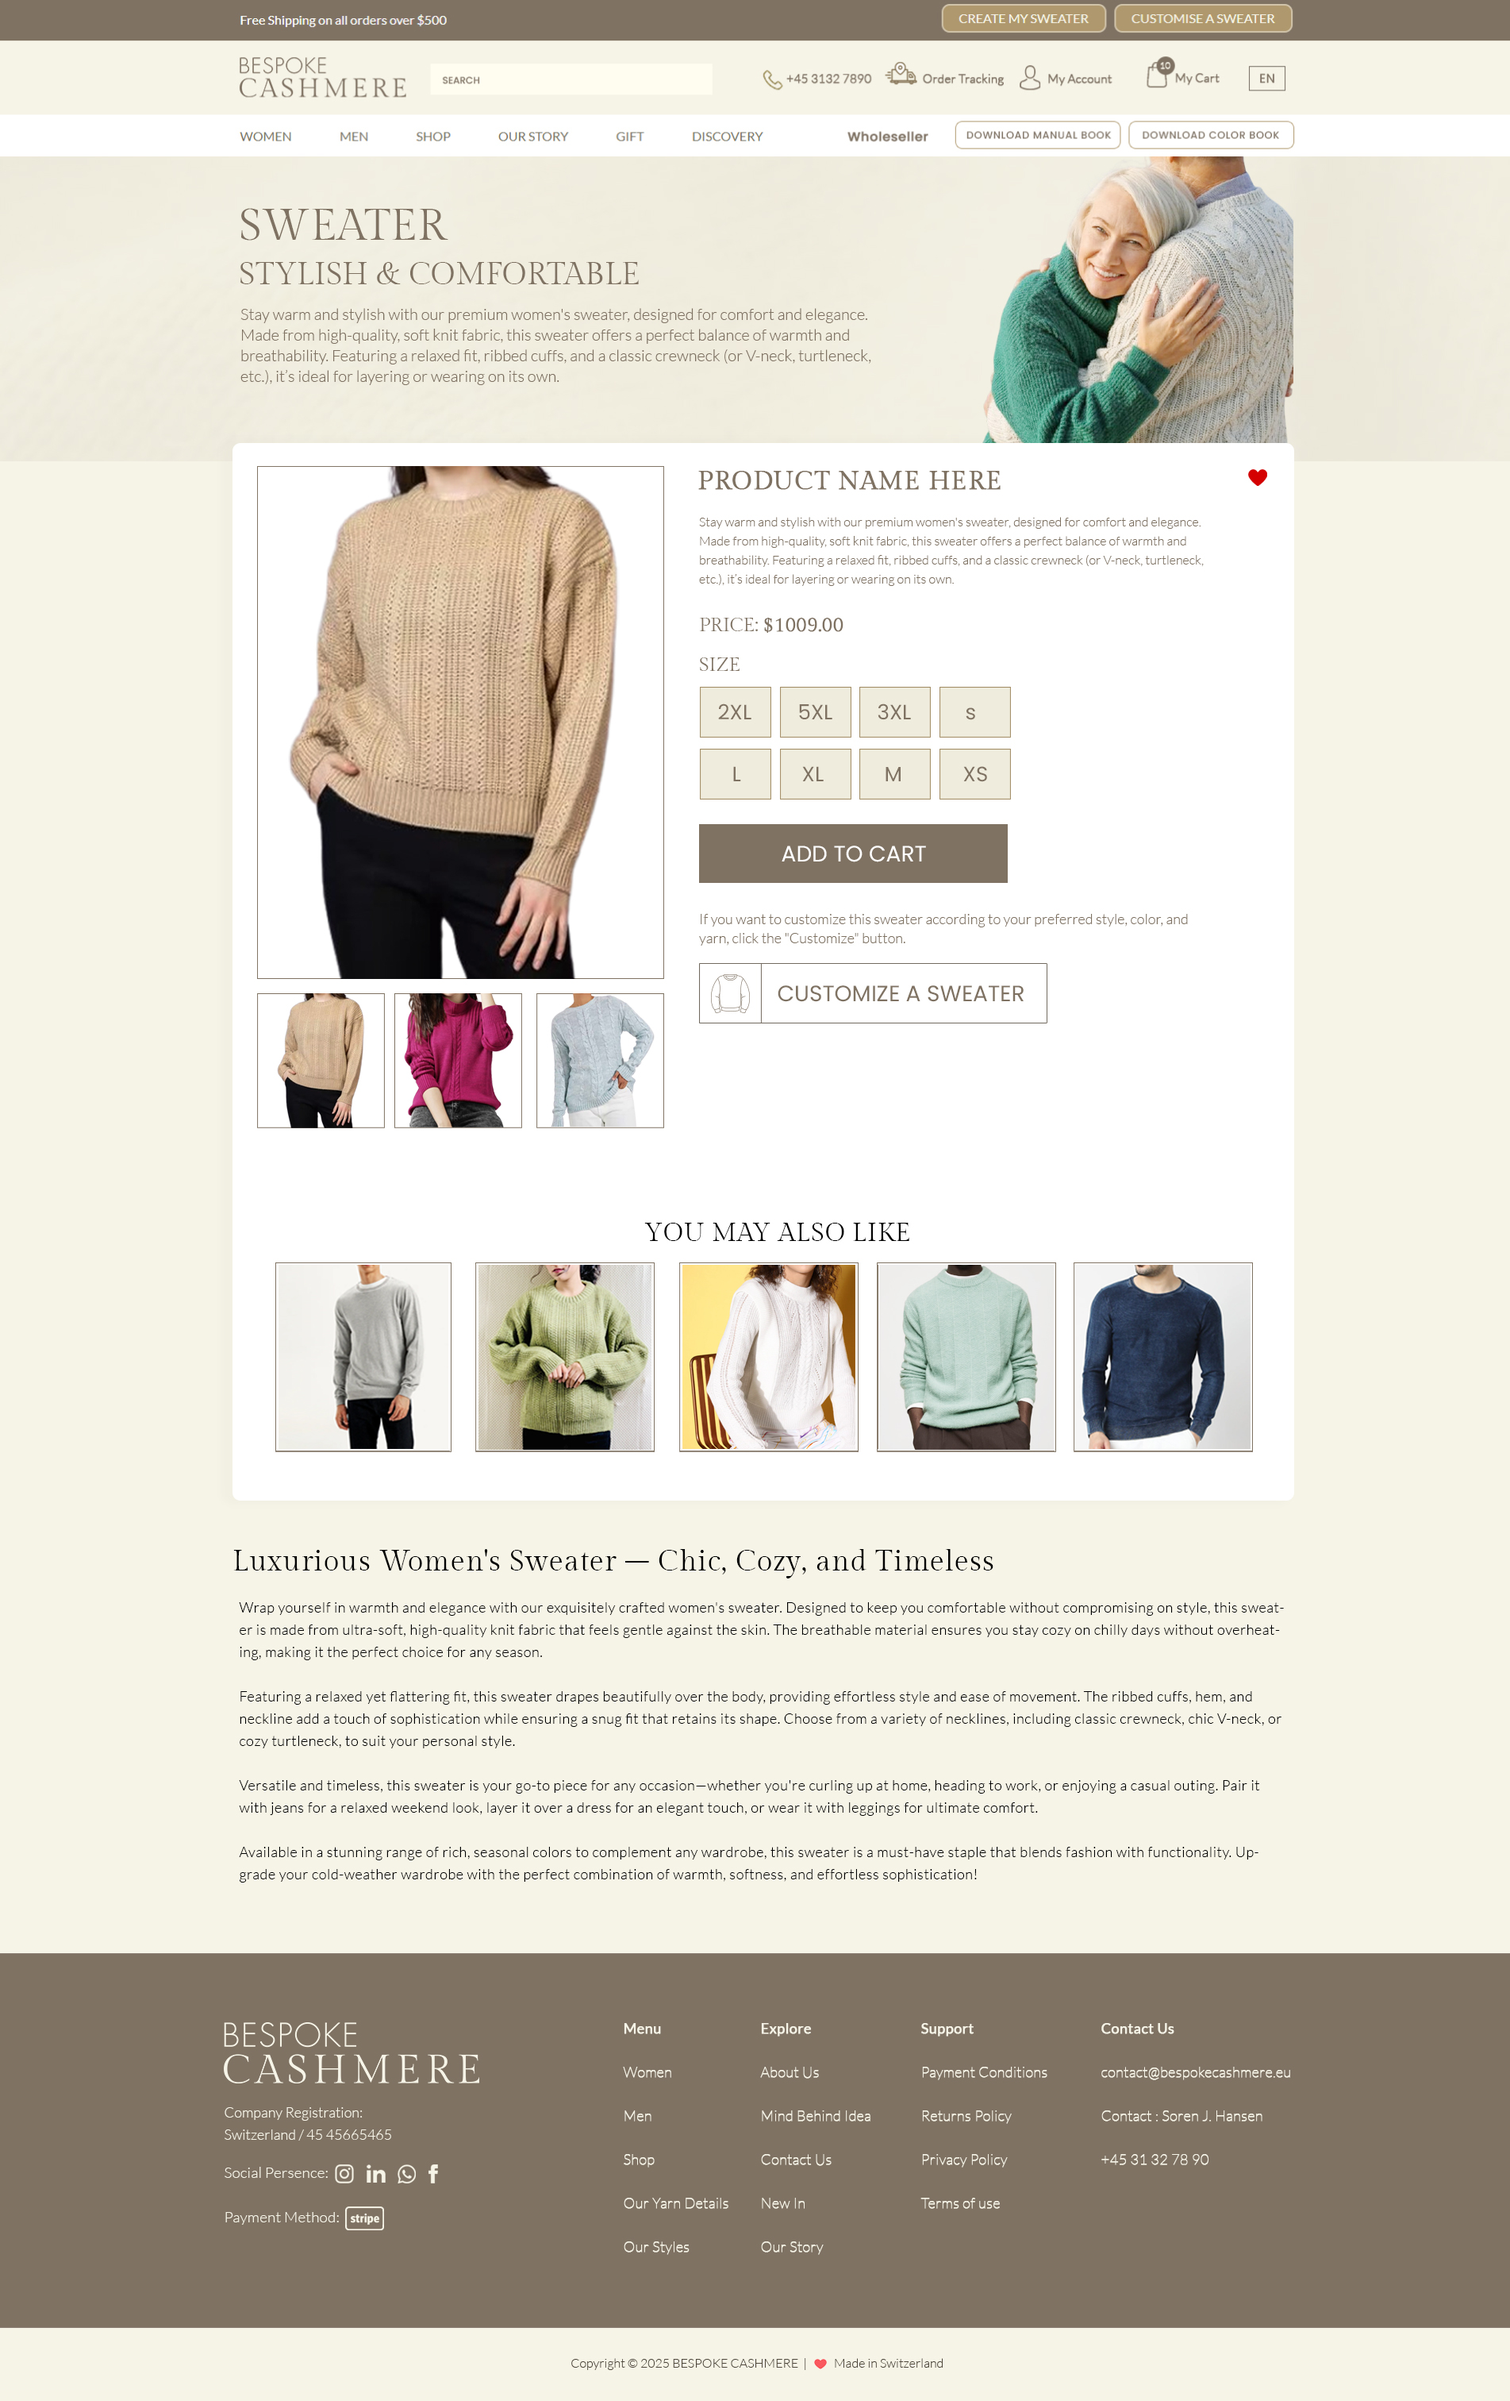
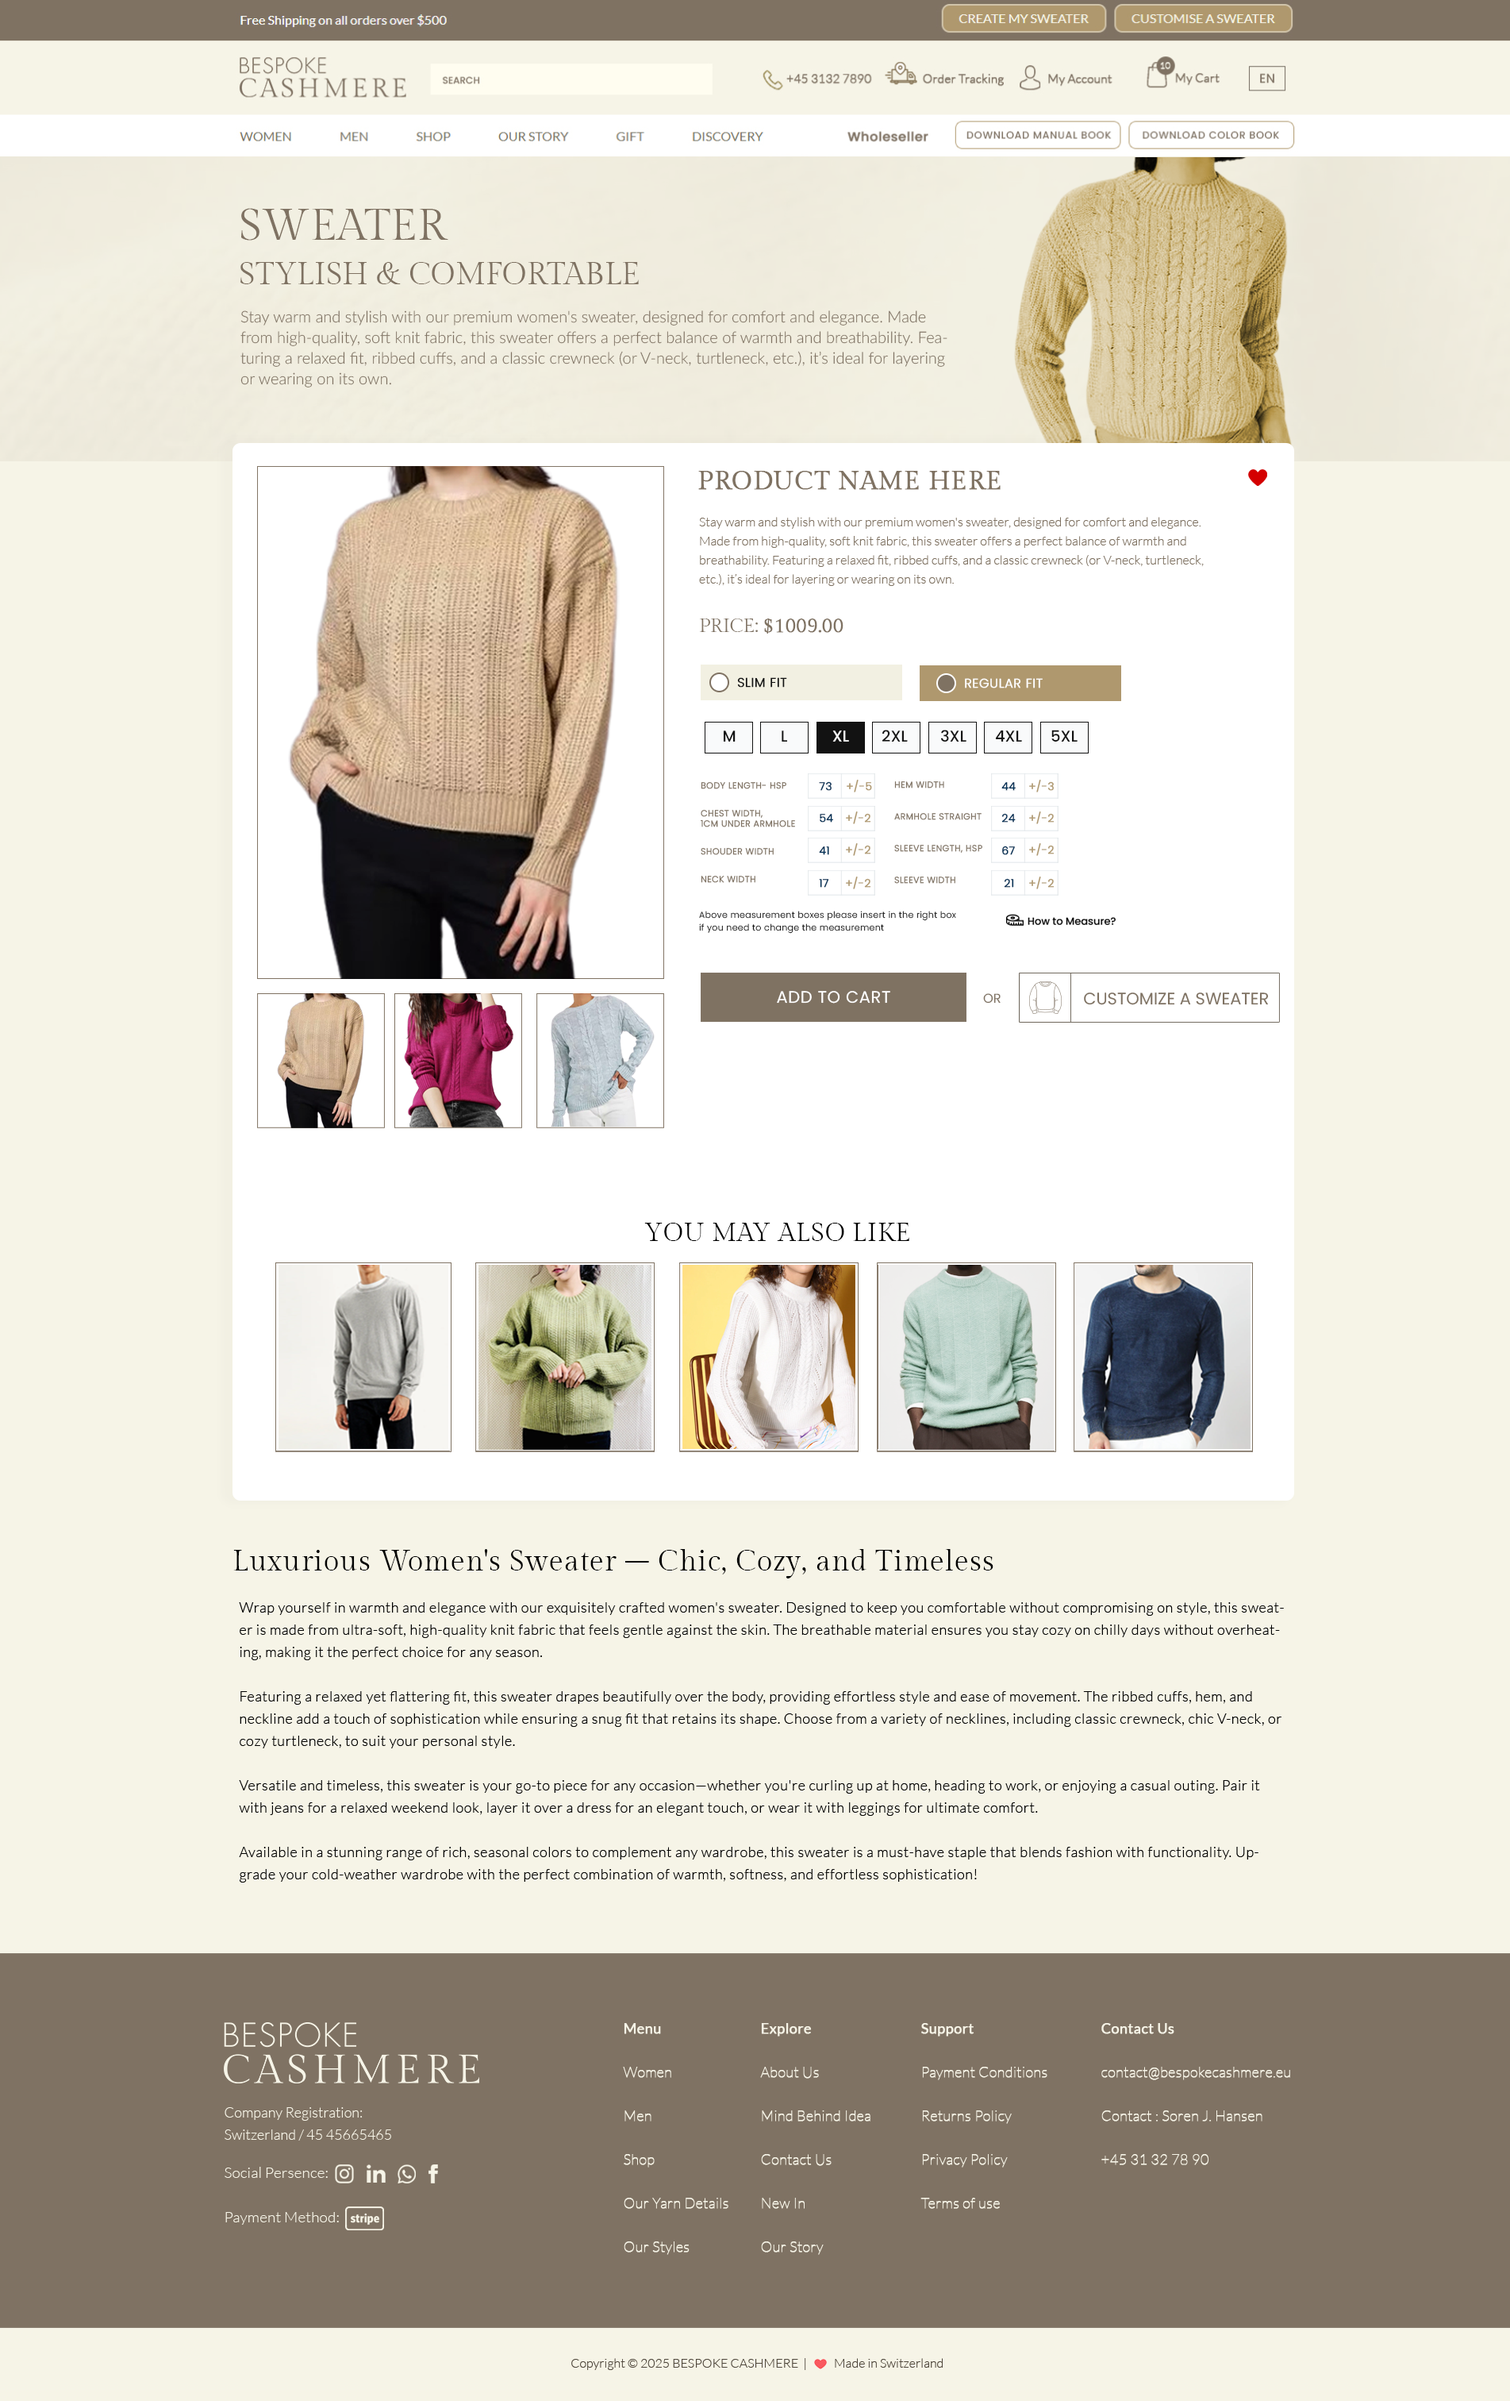
add new pages

Changed region(s): [[0.4651, 0.2487, 0.7441, 0.4352], [0.6511, 0.0622, 0.8681, 0.1865], [0.155, 0.1243, 0.6201, 0.1554]]

diff --git a/app/stripe-payment/page.tsx b/app/stripe-payment/page.tsx
@@ -1,11 +1,10 @@
-import Link from 'next/link';
 
 export default function Stepbar() {
   return (
     <div>
        <img
         className="w-full"
-        src="/women-landing.png"
+        src="/stripe-payment.jpg"
         alt="Home Page"
       />
     </div>

diff --git a/app/bc-product-details-slim/page.tsx b/app/bc-product-details-slim/page.tsx
@@ -5,7 +5,7 @@ export default function Stepbar() {
     <div>
        <img
         className="w-full"
-        src="/women-landing.png"
+        src="/product-details-slim.png"
         alt="Home Page"
       />
     </div>

diff --git a/app/HealthMinister/page.tsx b/app/HealthMinister/page.tsx
@@ -5,7 +5,7 @@ export default function Stepbar() {
     <div>
        <img
         className="w-full"
-        src="/women-landing.png"
+        src="/idea-01.jpg"
         alt="Home Page"
       />
     </div>
